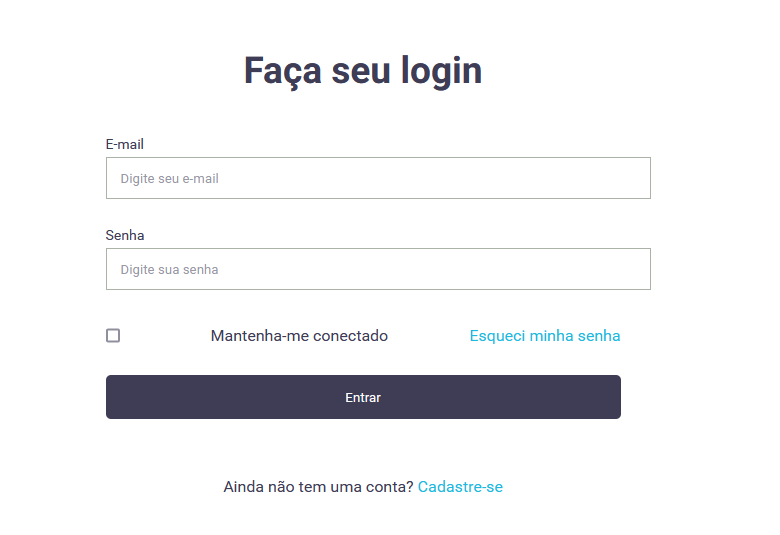
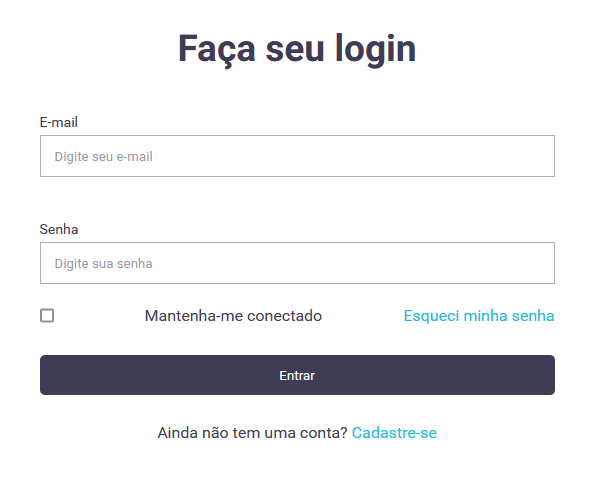
helena

diff --git a/README.md b/README.md
@@ -7,7 +7,8 @@
     <p>Tentei me aproximar ao máximo do layout original, mas o botão de cadastro não quis colaborar comigo :(</p>
     <p>Ainda me confundo MUITO com os detalhes do CSS, com certeza é minha maior dificuldade no momento e o que me impediu de deixar o botão igual ao resto das       caixas. Mas quero voltar aqui pra melhorar o resultado!</p>
     <p>Finalmente consegui alinhar o botão de login!! O que tava me atrapalhando era um width de 100% no input. :)</p>
-    <img style="width: 350px" src="resultado_form.png">
+    <img style="width: 350px" src="tela-cadastro.png">
     <img style="width: 350px" src="tela-login.png">
+    <img style="width: 350px" src="tela-recup-de-senha.png">
   </body>
 </html>
